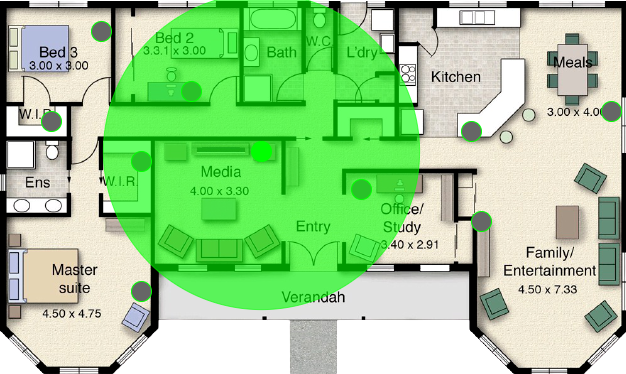
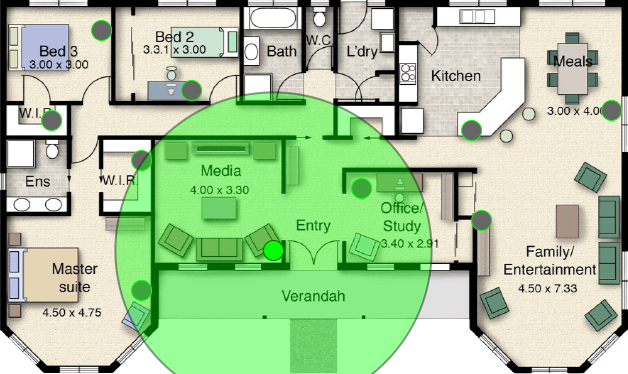
Adicionada visualização combinada de roteador e primeiro repetidor

diff --git a/redeMesh.py b/redeMesh.py
@@ -50,11 +50,9 @@ comodos[4][1] = 1
 comodos[4][2] = 1
 comodos[4][3] = 1
 comodos[4][4] = 1
-comodos[4][5] = 1
 
 #Media
 comodos[5][1] = 1
-comodos[5][4] = 1
 comodos[5][5] = 1
 comodos[5][6] = 1
 
@@ -87,8 +85,8 @@ comodos = {0 'Suite Master':    ['Closet Master', 'Media'],
            1 'Closet Master':   ['Closet Quarto 3', 'Quarto 3', 'Quarto 2', 'Media', 'Suite Master'],
            2 'Closet Quarto 3': ['Quarto 3', 'Quarto 2', 'Closet Master'],
            3 'Quarto 3':        ['Quarto 2', 'Closet Master', 'Closet Quarto 3'],
-           4 'Quarto 2':        ['Quarto 3', 'Media', 'Closet Master', 'Closet Quarto 3'],
-           5 'Media':           ['Closet Master', 'Quarto 2', 'Escritório'],
+           4 'Quarto 2':        ['Quarto 3', 'Closet Master', 'Closet Quarto 3'],
+           5 'Media':           ['Closet Master', 'Escritório'],
            6 'Escritório':      ['Media', 'Cozinha'],
            7 'Cozinha':         ['Sala de Jantar', 'Escritório', 'Sala'],
            8 'Sala de Jantar':  ['Cozinha', 'Sala'],
@@ -97,8 +95,46 @@ comodos = {0 'Suite Master':    ['Closet Master', 'Media'],
 '''
 
 localDeAcesso = {}
+pos_rot = ''
+pos_rep1 = ''
 
-def atualiza_imagem(value):
+def atualiza_pos_rot(value):
+  global pos_rot
+  pos_rot = value
+  imgPath = "imagens/" + value + ".png"
+  img2 = ImageTk.PhotoImage(Image.open(imgPath))
+  imgLabel.configure(image=img2)
+  imgLabel.image = img2
+
+def atualiza_pos_rep1(value):
+  global pos_rot
+  global pos_rep1
+  pos_rep1 = value
+  try:
+    imgPath = "imagens/" + pos_rot + "-" + value + ".png"
+    img2 = ImageTk.PhotoImage(Image.open(imgPath))
+  except:
+    imgPath = "imagens/" + value + "-" + pos_rot + ".png"
+    img2 = ImageTk.PhotoImage(Image.open(imgPath))
+  imgLabel.configure(image=img2)
+  imgLabel.image = img2
+
+def atualiza_pos_rep2(value):
+  global pos_rot
+  global pos_rep1
+  global pos_rep2
+  pos_rep2 = value
+  imgPath = "imagens/" + value + ".png"
+  img2 = ImageTk.PhotoImage(Image.open(imgPath))
+  imgLabel.configure(image=img2)
+  imgLabel.image = img2
+
+def atualiza_pos_rep3(value):
+  global pos_rot
+  global pos_rep1
+  global pos_rep2
+  global pos_rep3
+  pos_rep3 = value
   imgPath = "imagens/" + value + ".png"
   img2 = ImageTk.PhotoImage(Image.open(imgPath))
   imgLabel.configure(image=img2)
@@ -118,7 +154,7 @@ for item in comodostxt:
 clicked = StringVar()
 #clicked.set(router_options[0])
 
-OptionMenu(root, clicked, *router_options, command=atualiza_imagem).pack(padx=100)
+OptionMenu(root, clicked, *router_options, command=atualiza_pos_rot).pack(padx=100)
 
 
 
@@ -130,7 +166,7 @@ for item in comodostxt:
     rep1_options.append(item)
 clicked = StringVar()
 clicked.set(rep1_options[0])
-OptionMenu(root, clicked, *rep1_options).pack(padx=0)
+OptionMenu(root, clicked, *rep1_options, command=atualiza_pos_rep1).pack(padx=0)
 
 rep2_options = []
 for item in comodostxt:
